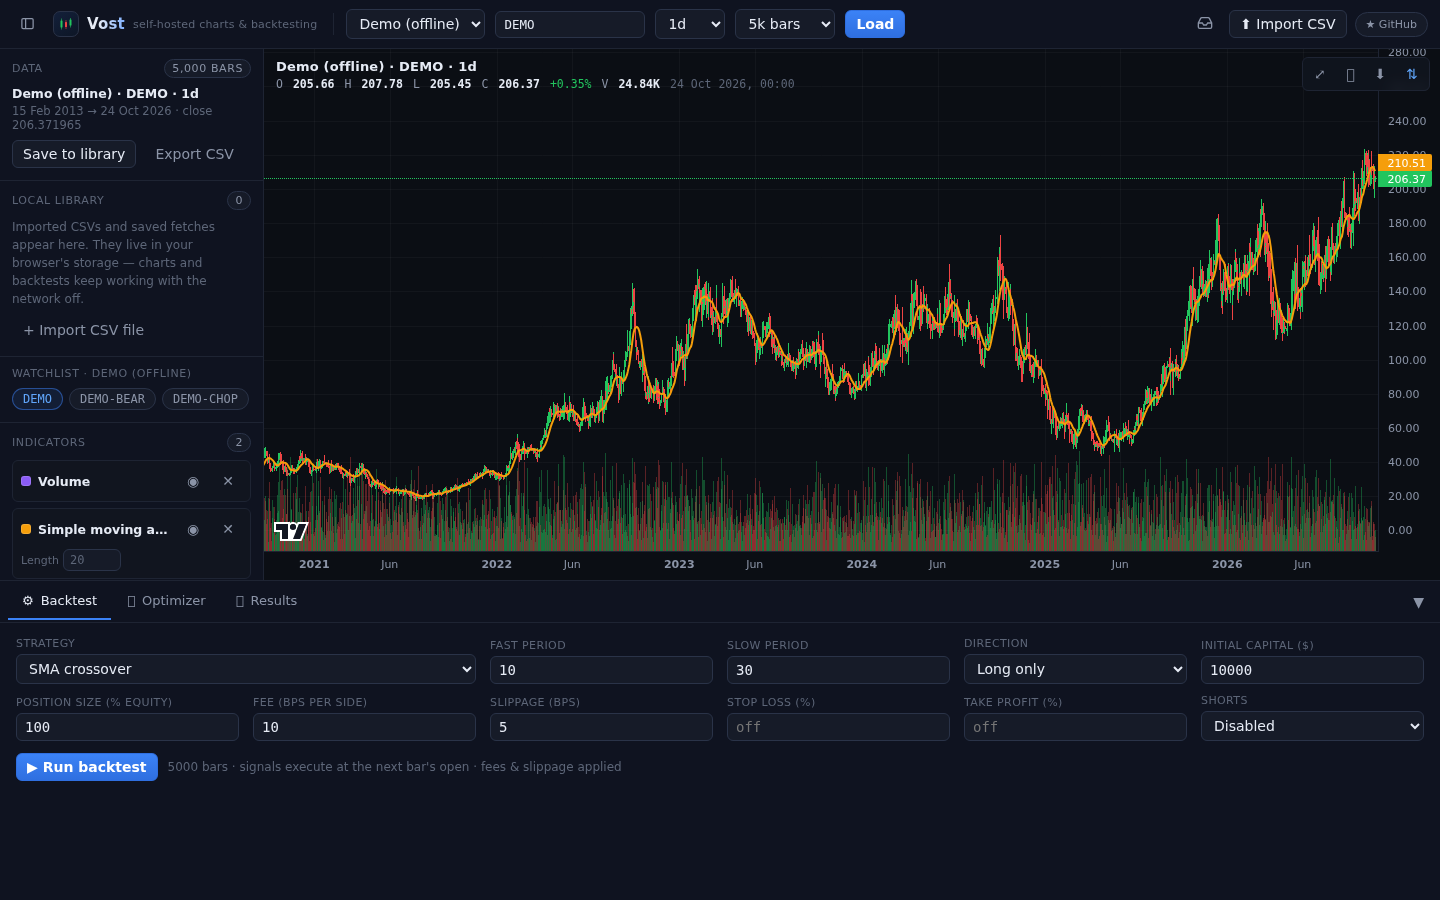
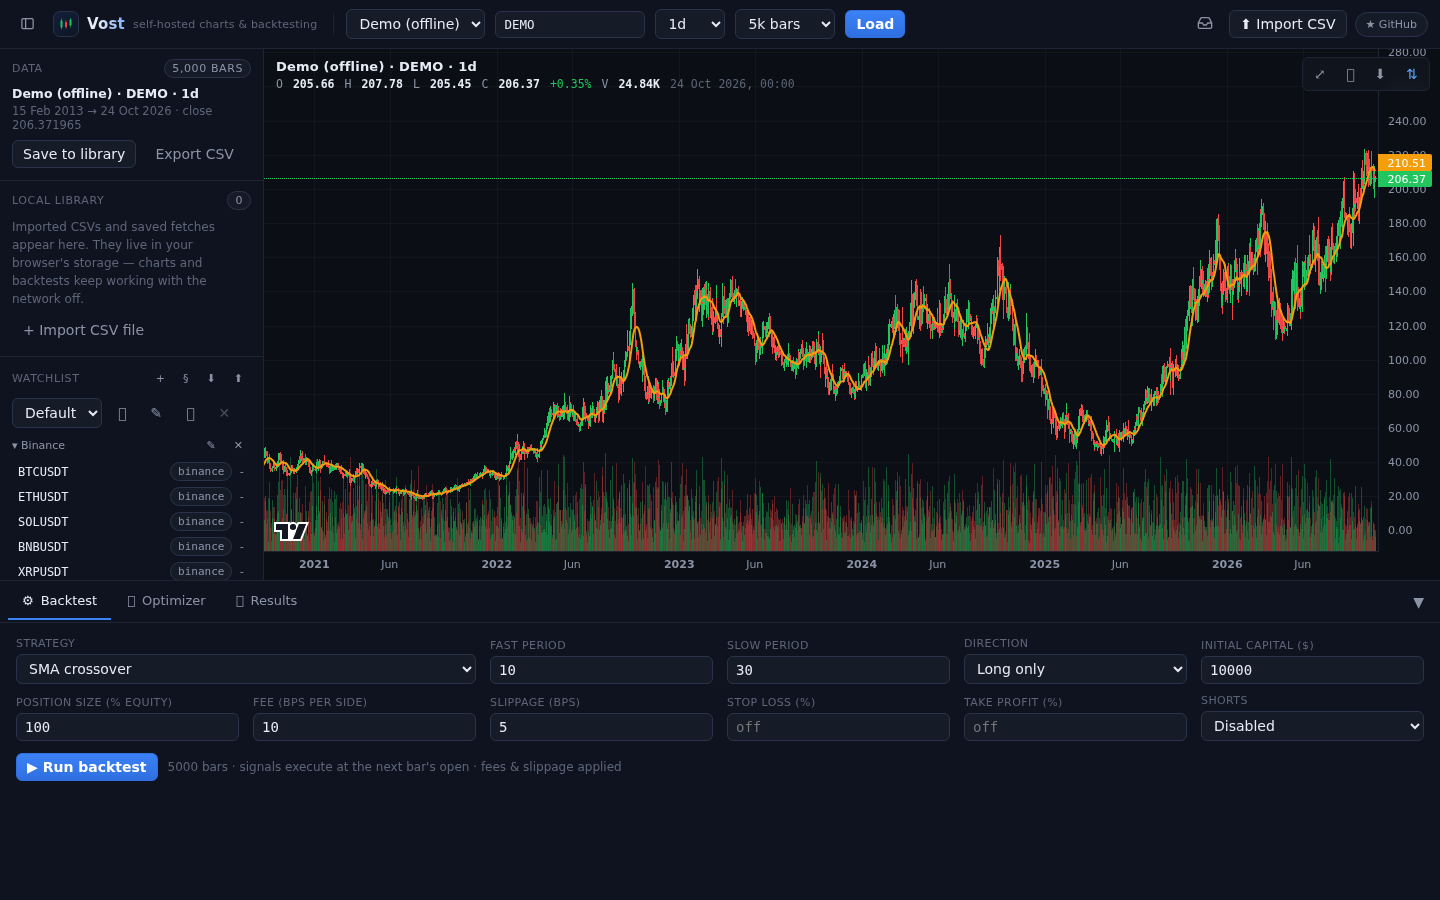
Point GitHub URLs at cbundy/Vost (#33)
* Point GitHub URLs at cbundy/Vost and pin the top bar link in a test

* Refresh chart desktop reference capture showing the top bar

Changed region(s): [[0.0, 0.4044, 0.1562, 0.6533], [0.125, 0.4978, 0.1562, 0.6533]]

diff --git a/client/src/lib/constants.ts b/client/src/lib/constants.ts
@@ -4,5 +4,5 @@ export const APP_NAME = 'Vost';
 export const APP_VERSION = '0.1.0';
 export const APP_TAGLINE = 'Self-hosted, open-source charts & backtesting';
 
-/** Update this to your repository URL after publishing. */
-export const PROVIDER_GITHUB_URL = 'https://github.com/AuthorShin/Vost';
+/** The repository's GitHub URL, used by the top bar link. */
+export const PROVIDER_GITHUB_URL = 'https://github.com/cbundy/Vost';

diff --git a/client/src/lib/constants.test.ts b/client/src/lib/constants.test.ts
@@ -1,0 +1,8 @@
+import { describe, expect, it } from 'vitest';
+import { PROVIDER_GITHUB_URL } from './constants';
+
+describe('constants', () => {
+  it('points the GitHub link at the cbundy/Vost repository', () => {
+    expect(PROVIDER_GITHUB_URL).toBe('https://github.com/cbundy/Vost');
+  });
+});

diff --git a/README.md b/README.md
@@ -7,7 +7,7 @@
 Pull free public market data, import your own CSV files, chart them with [lightweight-charts](https://github.com/tradingview/lightweight-charts), and run **unlimited** backtests with a parameter optimizer — all from a single Node process with **zero runtime dependencies**.
 
 [![License: MIT](https://img.shields.io/badge/License-MIT-blue.svg)](#license)
-[![CI](https://github.com/AuthorShin/Vost/actions/workflows/ci.yml/badge.svg)](https://github.com/AuthorShin/Vost/actions/workflows/ci.yml)
+[![CI](https://github.com/cbundy/Vost/actions/workflows/ci.yml/badge.svg)](https://github.com/cbundy/Vost/actions/workflows/ci.yml)
 [![Node](https://img.shields.io/badge/node-%3E%3D20.19-brightgreen.svg)](#quick-start)
 [![PRs Welcome](https://img.shields.io/badge/PRs-welcome-brightgreen.svg)](CONTRIBUTING.md)
 
@@ -53,7 +53,7 @@ Pull free public market data, import your own CSV files, chart them with [lightw
 ### Docker (recommended for self-hosting)
 
 ```bash
-git clone https://github.com/AuthorShin/Vost.git
+git clone https://github.com/cbundy/Vost.git
 cd Vost
 docker compose up -d
 ```
@@ -63,7 +63,7 @@ Open <http://localhost:8787>. Done.
 ### Local (Node 24 recommended, 20.19+ supported)
 
 ```bash
-git clone https://github.com/AuthorShin/Vost.git
+git clone https://github.com/cbundy/Vost.git
 cd Vost
 npm install
 npm run build     # typecheck + bundle the web client

diff --git a/docs/DEPLOYMENT.md b/docs/DEPLOYMENT.md
@@ -55,7 +55,7 @@ docker compose up -d --build
 Requirements: Node **24** recommended (`node --version`); Node 20.19+ is the minimum supported.
 
 ```bash
-git clone https://github.com/AuthorShin/Vost.git
+git clone https://github.com/cbundy/Vost.git
 cd Vost
 npm ci            # or npm install
 npm run build     # typecheck + bundle -> client/dist

diff --git a/CONTRIBUTING.md b/CONTRIBUTING.md
@@ -5,7 +5,7 @@ Thanks for helping out! This document covers everything you need to get producti
 ## Setup
 
 ```bash
-git clone https://github.com/AuthorShin/Vost.git
+git clone https://github.com/cbundy/Vost.git
 cd Vost
 npm install
 npm run dev      # server on :8787, Vite dev server on :5173 (open this one)
